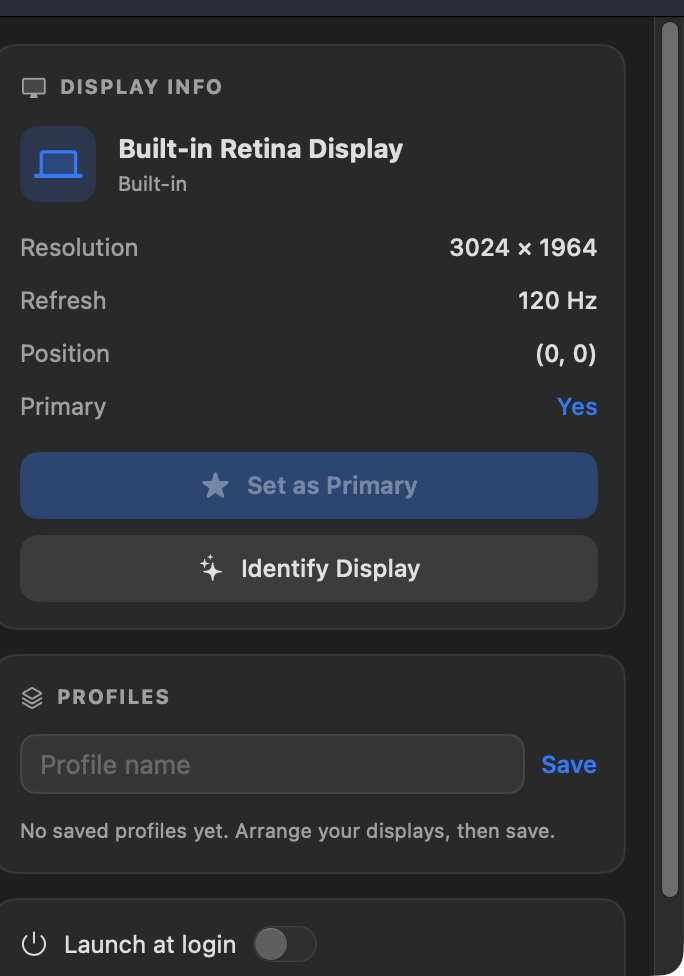
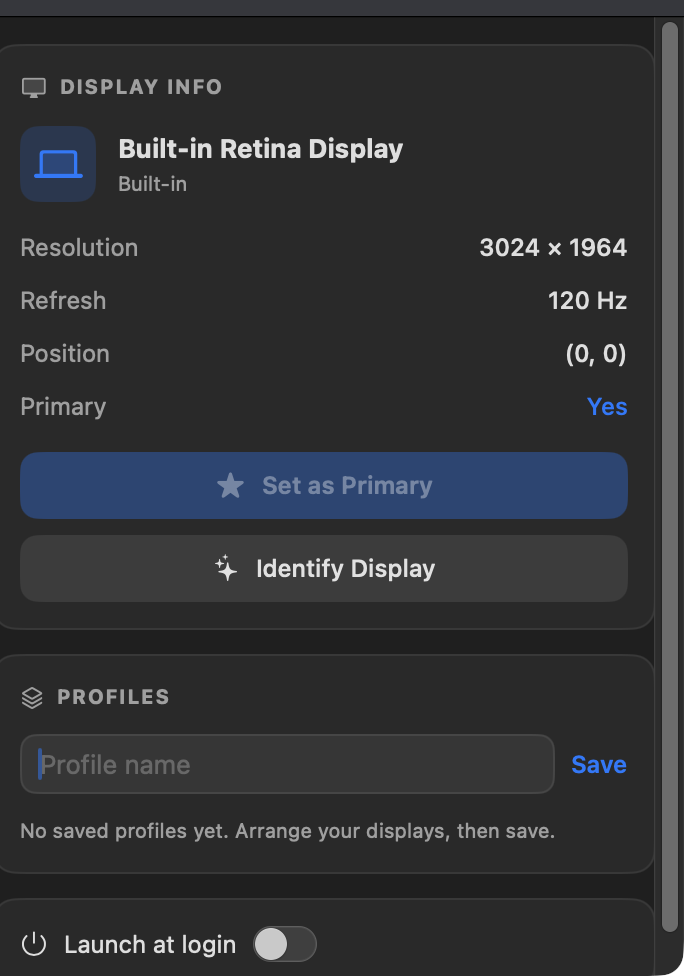
feat: package as installable .app + refine MacBook frame
- Scripts/package-app.sh + MakeAppIcon.swift: build/install an ad-hoc-signed
  DisplayRanger.app bundle (icon, bundle id) → enables launch-at-login
- DeviceChrome: thinner, accurately proportioned MacBook deck (was a chunky wedge)
- README: install instructions; refreshed screenshots

diff --git a/Scripts/MakeAppIcon.swift b/Scripts/MakeAppIcon.swift
@@ -1,0 +1,44 @@
+import AppKit
+
+// Mirrors Sources/DisplayRanger/Managers/AppIcon.swift, rendered at exact pixel
+// sizes for an .iconset → .icns.
+func drawScreen(_ rect: NSRect, alpha: CGFloat) {
+    let body = NSBezierPath(roundedRect: rect, xRadius: rect.width * 0.10, yRadius: rect.width * 0.10)
+    NSColor.white.withAlphaComponent(alpha).setFill(); body.fill()
+    NSColor(calibratedWhite: 0, alpha: 0.12).setStroke()
+    body.lineWidth = max(1, rect.width * 0.02); body.stroke()
+    let standW = rect.width * 0.30
+    let stand = NSRect(x: rect.midX - standW/2, y: rect.minY - rect.height*0.10, width: standW, height: rect.height*0.10)
+    NSColor.white.withAlphaComponent(alpha).setFill(); NSBezierPath(rect: stand).fill()
+}
+
+func render(_ s: CGFloat) -> NSBitmapImageRep {
+    let rep = NSBitmapImageRep(bitmapDataPlanes: nil, pixelsWide: Int(s), pixelsHigh: Int(s),
+                               bitsPerSample: 8, samplesPerPixel: 4, hasAlpha: true, isPlanar: false,
+                               colorSpaceName: .calibratedRGB, bytesPerRow: 0, bitsPerPixel: 0)!
+    NSGraphicsContext.saveGraphicsState()
+    NSGraphicsContext.current = NSGraphicsContext(bitmapImageRep: rep)
+    let bg = NSBezierPath(roundedRect: NSRect(x: 0, y: 0, width: s, height: s), xRadius: s*0.22, yRadius: s*0.22)
+    bg.addClip()
+    NSGradient(colors: [NSColor(calibratedRed:0.30,green:0.46,blue:0.96,alpha:1),
+                        NSColor(calibratedRed:0.16,green:0.30,blue:0.78,alpha:1)])?
+        .draw(in: NSRect(x:0,y:0,width:s,height:s), angle: -90)
+    drawScreen(NSRect(x: s*0.16, y: s*0.34, width: s*0.50, height: s*0.36), alpha: 0.95)
+    drawScreen(NSRect(x: s*0.50, y: s*0.20, width: s*0.34, height: s*0.26), alpha: 0.80)
+    NSGraphicsContext.restoreGraphicsState()
+    return rep
+}
+
+let out = CommandLine.arguments[1]
+let sizes: [(Int, String)] = [
+    (16,"icon_16x16"),(32,"icon_16x16@2x"),(32,"icon_32x32"),(64,"icon_32x32@2x"),
+    (128,"icon_128x128"),(256,"icon_128x128@2x"),(256,"icon_256x256"),(512,"icon_256x256@2x"),
+    (512,"icon_512x512"),(1024,"icon_512x512@2x"),
+]
+try? FileManager.default.createDirectory(atPath: out, withIntermediateDirectories: true)
+for (px, name) in sizes {
+    let rep = render(CGFloat(px))
+    let data = rep.representation(using: .png, properties: [:])!
+    try! data.write(to: URL(fileURLWithPath: "\(out)/\(name).png"))
+}
+print("wrote \(sizes.count) icons to \(out)")

diff --git a/Sources/DisplayRanger/Views/DeviceChrome.swift b/Sources/DisplayRanger/Views/DeviceChrome.swift
@@ -21,7 +21,7 @@ struct DeviceChrome: View {
     /// Total drawn height, used by the caller to offset the chrome below the screen.
     var height: CGFloat {
         switch kind {
-        case .laptop:    return screenWidth * 0.075
+        case .laptop:    return screenWidth * 0.052
         case .allInOne:  return chinHeight + neckHeight + footHeight
         }
     }
@@ -37,8 +37,8 @@ struct DeviceChrome: View {
         }
     }
 
-    // MARK: MacBook — a foreshortened keyboard deck (tapered, rounded front,
-    // centered thumb scoop) with a darker hinge bar where it meets the screen.
+    // MARK: MacBook — a thin foreshortened deck (gently tapered, rounded front,
+    // small centered thumb notch) with a recessed dark hinge where it meets the lid.
 
     private var laptop: some View {
         let w = screenWidth
@@ -46,20 +46,21 @@ struct DeviceChrome: View {
         return ZStack(alignment: .top) {
             LaptopDeck()
                 .fill(
-                    LinearGradient(colors: [aluminum.opacity(0.68), aluminum],
+                    LinearGradient(colors: [aluminum.opacity(0.78), aluminum],
                                    startPoint: .top, endPoint: .bottom)
                 )
-                .overlay(LaptopDeck().stroke(Color.black.opacity(0.18), lineWidth: 0.5))
+                .overlay(  // bright front lip to suggest the slab's thickness
+                    LaptopDeck().stroke(Color.white.opacity(0.22), lineWidth: 0.6)
+                )
                 .frame(width: w, height: h)
 
-            // Hinge bar, flush at the top where the lid meets the deck.
-            RoundedRectangle(cornerRadius: h * 0.22, style: .continuous)
-                .fill(aluminum.opacity(0.45))
-                .frame(width: w * 0.74, height: max(2, h * 0.16))
-                .offset(y: -h * 0.04)
+            // Recessed dark hinge line, flush where the lid meets the deck.
+            Capsule(style: .continuous)
+                .fill(Color(white: 0.22))
+                .frame(width: w * 0.5, height: max(1.5, h * 0.20))
         }
         .frame(width: w, height: h)
-        .shadow(color: .black.opacity(0.28), radius: 2.5, y: 1.5)
+        .shadow(color: .black.opacity(0.25), radius: 2, y: 1)
     }
 
     // MARK: iMac — flush chin, slim neck, curved foot (all within screen width).
@@ -90,10 +91,10 @@ struct DeviceChrome: View {
 private struct LaptopDeck: Shape {
     func path(in rect: CGRect) -> Path {
         var p = Path()
-        let topInset = rect.width * 0.085
-        let r = min(rect.height * 0.55, rect.width * 0.05)
-        let scoopW = rect.width * 0.16
-        let scoopDepth = rect.height * 0.42
+        let topInset = rect.width * 0.045          // gentle taper — not a funnel
+        let r = min(rect.height * 0.45, rect.width * 0.03)
+        let scoopW = rect.width * 0.11             // small, subtle thumb notch
+        let scoopDepth = rect.height * 0.55
         let midX = rect.midX
 
         // Top edge (at the hinge), inset on both sides for the taper.

diff --git a/README.md b/README.md
@@ -54,12 +54,20 @@ cd DisplayRanger
 swift run            # builds and launches the app
 ```
 
-Release binary:
+### Install as a real app
+
+Package the release binary into a proper, ad‑hoc‑signed `DisplayRanger.app` (with an
+icon and bundle id) and drop it in `/Applications`:
 
 ```bash
-swift build -c release
-.build/release/DisplayRanger
+./Scripts/package-app.sh --install     # → /Applications/DisplayRanger.app
+open -a DisplayRanger
 ```
+
+Omit `--install` to just build `build/DisplayRanger.app`. Installing as a bundle is what
+enables **Launch at login** (`SMAppService` needs a bundle identifier; under `swift run`
+the toggle is shown disabled). The bundle is ad‑hoc signed and **not** sandboxed — locally
+built apps aren't quarantined, so Gatekeeper won't block it.
 
 > **Must run non‑sandboxed.** Display reconfiguration uses the public
 > `CGBeginDisplayConfiguration` / `CGConfigureDisplayOrigin` /